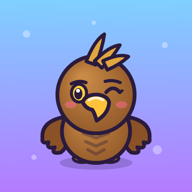
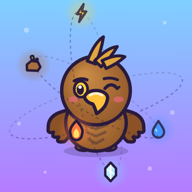
Ajoute l'atome d'éléments autour de Yglou
Les symboles des six tours tournent autour de la mascotte sur trois orbites
(accueil, fin de partie et icône de l'app).

diff --git a/js/draw.js b/js/draw.js
@@ -1021,11 +1021,12 @@ function drawPortal(c, x, y, s, t) {
 }
 // ---------- Yglou, la mascotte (aiglon chibi « aigle royal ») ----------
 // (x, y) : centre du corps ; s : taille (environ la hauteur totale) ; mood : happy, wink, shock, sad, party
-// o.crest : couleur de la crête (joueurs en multi) ; o.costume : clé d'événement pour son déguisement
+// o.crest : couleur de la crête (joueurs en multi) ; o.costume : clé d'événement pour son déguisement ; o.atom : taille de l'atome d'éléments en orbite (1 = taille de Yglou)
 const YG = { body: ['#c98a45', '#8a5226'], crest: '#e0a640' };
 function drawYglou(c, x, y, s, mood = 'happy', t = 0, o = {}) {
   const r = s * 0.36, lw = Math.max(1.5, s * 0.03), blinkOn = mood === 'happy' && ((t + (o.seed || 0)) % 3.6) < 0.12;
   const hop = mood === 'party' ? Math.abs(Math.sin(t * 7)) * s * 0.06 : 0;
+  if (o.atom) yAtom(c, x, y, s * o.atom, t, false);
   c.save(); c.translate(x, y); c.lineJoin = 'round'; c.lineCap = 'round';
   if (!o.noShadow) { c.fillStyle = 'rgba(42,27,61,.2)'; c.beginPath(); c.ellipse(0, r * 1.05, r * 0.8 * (1 - hop / s), r * 0.15, 0, 0, TAU); c.fill(); }
   c.translate(0, -hop);
@@ -1093,6 +1094,66 @@ function drawYglou(c, x, y, s, mood = 'happy', t = 0, o = {}) {
   }
   c.restore();
   if (mood === 'party' && !o.noConfetti) { const cols = ['#ff4f81', '#ffd23f', '#3fa9ff', '#4fd36a']; for (let i = 0; i < 10; i++) { const a = i * 2.4 + t * 0.8, d = s * (0.42 + (i % 3) * 0.06); c.save(); c.translate(x + Math.cos(a) * d, y - s * 0.14 + Math.sin(a) * d * 0.7); c.rotate(a + t * 3); c.fillStyle = cols[i % 4]; c.fillRect(-s * 0.015, -s * 0.03, s * 0.03, s * 0.06); c.restore(); } }
+  if (o.atom) yAtom(c, x, y, s * o.atom, t, true);
+}
+// L'atome d'éléments autour de Yglou : les symboles des tours tournent comme des électrons,
+// sur 3 orbites de tailles, d'angles et de vitesses différents (cy = hauteur du centre, rx/ry = rayons, tilt = inclinaison)
+const YEL = { feu: ['#ff7a3d', '#ffe066'], eau: ['#3a95ff', '#a8ecff'], terre: ['#a8703f', '#6fd35a'], vent: ['#6fe0c0', '#f0fffa'], foudre: ['#ffd23f', '#fff7b0'], glace: ['#7fd6ff', '#f2feff'] };
+const YATOM = [
+  { cy: -0.02, rx: 0.62, ry: 0.14, tilt: -0.3, sp: 1.1, ks: ['feu', 'vent'] },
+  { cy: -0.08, rx: 0.5, ry: 0.12, tilt: 0.55, sp: -0.8, ks: ['eau', 'terre'] },
+  { cy: -0.12, rx: 0.56, ry: 0.13, tilt: 1.35, sp: 0.65, ks: ['foudre', 'glace'] },
+];
+// Symbole d'un élément (comme sur les tours), centré en (x, y), demi-hauteur s
+function elemMotif(c, k, x, y, s, lw) {
+  c.save(); c.translate(x, y); c.lineJoin = 'round'; c.lineCap = 'round';
+  const [a, b] = YEL[k];
+  if (k === 'feu') {
+    c.beginPath(); c.moveTo(0, -s); c.quadraticCurveTo(s * 0.8, -s * 0.2, s * 0.55, s * 0.35); c.arc(0, s * 0.35, s * 0.55, 0, Math.PI); c.quadraticCurveTo(-s * 0.8, -s * 0.2, 0, -s); fs(c, a, lw);
+    c.beginPath(); c.moveTo(0, -s * 0.25); c.quadraticCurveTo(s * 0.35, s * 0.1, s * 0.27, s * 0.4); c.arc(0, s * 0.4, s * 0.27, 0, Math.PI); c.quadraticCurveTo(-s * 0.35, s * 0.1, 0, -s * 0.25); c.fillStyle = b; c.fill();
+  } else if (k === 'eau') {
+    c.beginPath(); c.moveTo(0, -s); c.bezierCurveTo(s * 0.3, -s * 0.5, s * 0.65, -s * 0.15, s * 0.65, s * 0.25); c.arc(0, s * 0.25, s * 0.65, 0, Math.PI); c.bezierCurveTo(-s * 0.65, -s * 0.15, -s * 0.3, -s * 0.5, 0, -s); fs(c, a, lw);
+    c.beginPath(); c.ellipse(-s * 0.25, s * 0.05, s * 0.1, s * 0.2, -0.4, 0, TAU); c.fillStyle = b; c.fill();
+  } else if (k === 'terre') {
+    c.beginPath(); c.moveTo(-s * 0.7, s * 0.55); c.lineTo(-s * 0.72, -s * 0.05); c.lineTo(-s * 0.25, -s * 0.45); c.lineTo(s * 0.45, -s * 0.35); c.lineTo(s * 0.72, s * 0.2); c.lineTo(s * 0.45, s * 0.6); c.closePath(); fs(c, a, lw);
+    c.beginPath(); c.moveTo(-s * 0.1, -s * 0.42); c.quadraticCurveTo(-s * 0.55, -s * 1.05, -s * 0.05, -s * 1.0); c.quadraticCurveTo(s * 0.1, -s * 0.7, -s * 0.1, -s * 0.42); fs(c, b, lw * 0.8);
+    c.beginPath(); c.moveTo(0, -s * 0.42); c.quadraticCurveTo(s * 0.5, -s * 0.9, s * 0.45, -s * 0.55); c.quadraticCurveTo(s * 0.3, -s * 0.4, 0, -s * 0.42); fs(c, b, lw * 0.8);
+  } else if (k === 'vent') {
+    c.beginPath(); c.arc(0, 0, s * 0.62, 0, TAU); fs(c, a, lw);
+    c.beginPath(); c.arc(s * 0.05, 0, s * 0.36, 0.4, Math.PI * 1.75); c.lineWidth = lw * 1.1; c.strokeStyle = b; c.stroke();
+    c.beginPath(); c.arc(s * 0.1, 0, s * 0.14, 0.4, Math.PI * 1.6); c.stroke();
+  } else if (k === 'foudre') {
+    c.beginPath(); c.moveTo(s * 0.25, -s); c.lineTo(-s * 0.5, s * 0.12); c.lineTo(-s * 0.02, s * 0.12); c.lineTo(-s * 0.25, s); c.lineTo(s * 0.55, -s * 0.18); c.lineTo(s * 0.07, -s * 0.18); c.closePath(); fs(c, a, lw);
+  } else {
+    c.beginPath(); c.moveTo(0, -s); c.lineTo(s * 0.58, -s * 0.38); c.lineTo(s * 0.58, s * 0.38); c.lineTo(0, s); c.lineTo(-s * 0.58, s * 0.38); c.lineTo(-s * 0.58, -s * 0.38); c.closePath();
+    const g = c.createLinearGradient(-s, -s, s, s); g.addColorStop(0, b); g.addColorStop(1, a); fs(c, g, lw);
+    c.beginPath(); c.moveTo(0, -s * 0.7); c.lineTo(0, s * 0.7); c.moveTo(-s * 0.35, -s * 0.2); c.lineTo(s * 0.35, s * 0.2); c.lineWidth = lw * 0.6; c.strokeStyle = 'rgba(255,255,255,.95)'; c.stroke();
+  }
+  c.restore();
+}
+// Moitié arrière (front = false, dessinée avant Yglou) ou avant de l'atome : orbites en pointillés puis électrons
+function yAtom(c, x, y, s, t, front) {
+  const lw = Math.max(1, s * 0.018), pt = (g, a) => { const ex = Math.cos(a) * s * g.rx, ey = Math.sin(a) * s * g.ry; return [x + ex * Math.cos(g.tilt) - ey * Math.sin(g.tilt), y + s * g.cy + ex * Math.sin(g.tilt) + ey * Math.cos(g.tilt)]; };
+  const items = [];
+  c.save(); c.lineWidth = Math.max(1, s * 0.008); c.strokeStyle = front ? 'rgba(42,27,61,.35)' : 'rgba(42,27,61,.18)'; c.setLineDash([s * 0.02, s * 0.02]);
+  YATOM.forEach((g, ri) => {
+    c.beginPath(); for (let j = 0; j <= 32; j++) { const [px, py] = pt(g, (front ? 0 : Math.PI) + j * Math.PI / 32); j ? c.lineTo(px, py) : c.moveTo(px, py); } c.stroke();
+    g.ks.forEach((k, i) => {
+      const a = t * g.sp + i * Math.PI + ri * 1.1, sn = Math.sin(a);
+      if ((sn >= 0) !== front) return;
+      const [px, py] = pt(g, a);
+      items.push({ k, px, py: py + Math.sin(t * 3 + i + ri) * s * 0.01, z: sn, sc: 0.78 + 0.11 * (sn + 1) });
+    });
+  });
+  c.restore();
+  items.sort((p, q) => p.z - q.z);
+  for (const it of items) {
+    const sz = s * 0.07 * it.sc, gr = c.createRadialGradient(it.px, it.py, 0, it.px, it.py, sz * 1.9);
+    c.save(); c.globalAlpha = front ? 1 : 0.8;
+    gr.addColorStop(0, YEL[it.k][0] + '99'); gr.addColorStop(1, YEL[it.k][0] + '00');
+    c.fillStyle = gr; c.beginPath(); c.arc(it.px, it.py, sz * 1.9, 0, TAU); c.fill();
+    elemMotif(c, it.k, it.px, it.py, sz, lw * it.sc); c.restore();
+  }
 }
 // La maison à protéger (décorée selon l'événement)
 function drawBase(c, x, y, s, t, hit) {

diff --git a/js/mascot.js b/js/mascot.js
@@ -10,7 +10,8 @@ function paintYglou(cv, w, h, mood, t, o = {}) {
   const c = prepMini(cv, w, h), oo = Object.assign({ costume: liveCostume() }, o);
   // Avec un chapeau, Yglou est un peu plus petit et plus bas pour que le chapeau tienne dans le cadre
   // o.top : place vide en haut du cadre (part de la hauteur) pour que les sauts et le chapeau ne soient jamais coupés
-  const h0 = h / (1 + (o.top || 0)), hat = !!oo.costume, sz = h0 * (hat ? 0.66 : 0.8), cy = h - h0 + h0 * (hat ? 0.67 : 0.6);
+  // Avec l'atome d'éléments, Yglou est un peu plus petit pour que les électrons restent dans le cadre
+  const h0 = h / (1 + (o.top || 0)), hat = !!oo.costume, sz = h0 * (hat ? 0.66 : 0.8) * (o.atom ? 0.9 : 1), cy = h - h0 + h0 * (hat ? 0.67 : 0.6);
   drawYglou(c, w / 2, cy - (o.jump || 0), sz, mood, t, oo);
 }
 function mascotTick(t) {
@@ -22,9 +23,9 @@ function mascotTick(t) {
   if (curScreen === 'title') {
     const j = MASCOT.jumpT > 0 ? Math.sin((0.6 - MASCOT.jumpT) / 0.6 * Math.PI) * 18 : 0;
     const cv = $('#tYglou'), hh = cv.clientHeight || 175, base = hh / 1.35;
-    paintYglou(cv, Math.round(cv.clientWidth || hh * 0.8), hh, MASCOT.jumpT > 0 ? 'party' : (t % 7) < 0.6 ? 'wink' : 'happy', t, { jump: j * base / 130, top: 0.35 });
+    paintYglou(cv, Math.round(cv.clientWidth || hh * 0.8), hh, MASCOT.jumpT > 0 ? 'party' : (t % 7) < 0.6 ? 'wink' : 'happy', t, { jump: j * base / 130, top: 0.35, atom: 1.3 });
     if (!MASCOT.chipT || t - MASCOT.chipT > 1) { MASCOT.chipT = t; paintYglou($('#tProfCv'), 30, 30, 'happy', 0, { noShadow: true, noConfetti: true, costume: null }); }
-  } else if (curScreen === 'over') paintYglou($('#oYglou'), 130, 130, MASCOT.overMood, t);
+  } else if (curScreen === 'over') paintYglou($('#oYglou'), 170, 130, MASCOT.overMood, t, { atom: 1.3 });
   else if (curScreen === 'profile') paintYglou($('#prCv'), 70, 70, (t % 5) < 0.6 ? 'wink' : 'happy', t, { noConfetti: true });
   else if (curScreen === 'shop') paintYglou($('#sYglou'), 72, 72, MASCOT.shopParty > 0 ? 'party' : (t % 6) < 0.6 ? 'wink' : 'happy', t, { noConfetti: true });
   const gb = document.querySelector('#guideBox:not([hidden]) .gy');

diff --git a/css/style.css b/css/style.css
@@ -523,7 +523,7 @@ button:disabled{cursor:default}
 .upcoming em{font-style:normal;font-weight:700;color:var(--muted);font-size:13px;text-align:right}
 /* Yglou, la mascotte */
 #tYglou{display:block;width:120px;height:120px;margin:4px auto -34px;position:relative;z-index:2;cursor:pointer;-webkit-tap-highlight-color:transparent}
-#oYglou{display:block;width:130px;height:130px;margin:0 auto -14px}
+#oYglou{display:block;width:170px;height:130px;margin:0 auto -14px}
 .ybub{display:flex;align-items:center;gap:8px}
 .ybub canvas{flex:none;width:72px;height:72px}
 .ybub p{flex:1;min-width:0;text-align:left;margin:0}
@@ -533,7 +533,7 @@ button:disabled{cursor:default}
 #sTitle{overflow-y:auto}
 #sTitle .tinner{min-height:100%;justify-content:space-evenly;gap:clamp(6px,1.4vh,14px);padding-block:clamp(2px,1vh,10px)}
 /* Le cadre de Yglou déborde vers le haut (35 % de sa taille) : il peut sauter sans que son chapeau soit coupé */
-#sTitle #tYglou{width:auto;height:calc(clamp(88px,15vh,140px) * 1.35);aspect-ratio:9/13.5;margin:calc(clamp(88px,15vh,140px) * -0.35) auto calc(clamp(88px,15vh,140px) * -0.26);z-index:4;position:relative}
+#sTitle #tYglou{width:auto;height:calc(clamp(88px,15vh,140px) * 1.35);aspect-ratio:12/13.5;margin:calc(clamp(88px,15vh,140px) * -0.35) auto calc(clamp(88px,15vh,140px) * -0.26);z-index:4;position:relative}
 #sTitle .logo{margin:0}
 #sTitle .logo .l1{font-size:clamp(40px,min(13vw,8vh),86px)}
 #sTitle .logo .l2{font-size:clamp(20px,min(6.5vw,4vh),38px);margin-top:4px}

diff --git a/sw.js b/sw.js
@@ -1,6 +1,6 @@
 // Élémento Defense : mise en cache pour jouer sans internet.
 // Stratégie : réponse immédiate depuis le cache, puis mise à jour en arrière-plan quand le réseau répond.
-const CACHE = 'elemento-v28';
+const CACHE = 'elemento-v29';
 const SHELL = [
   './', 'index.html', 'manifest.webmanifest', 'css/style.css',
   'js/i18n.js', 'js/data.js', 'js/draw.js', 'js/game.js', 'js/ui.js', 'js/net.js', 'js/multi.js', 'js/duel.js', 'js/music.js', 'js/guide.js', 'js/random.js', 'js/coop.js', 'js/mascot.js',
